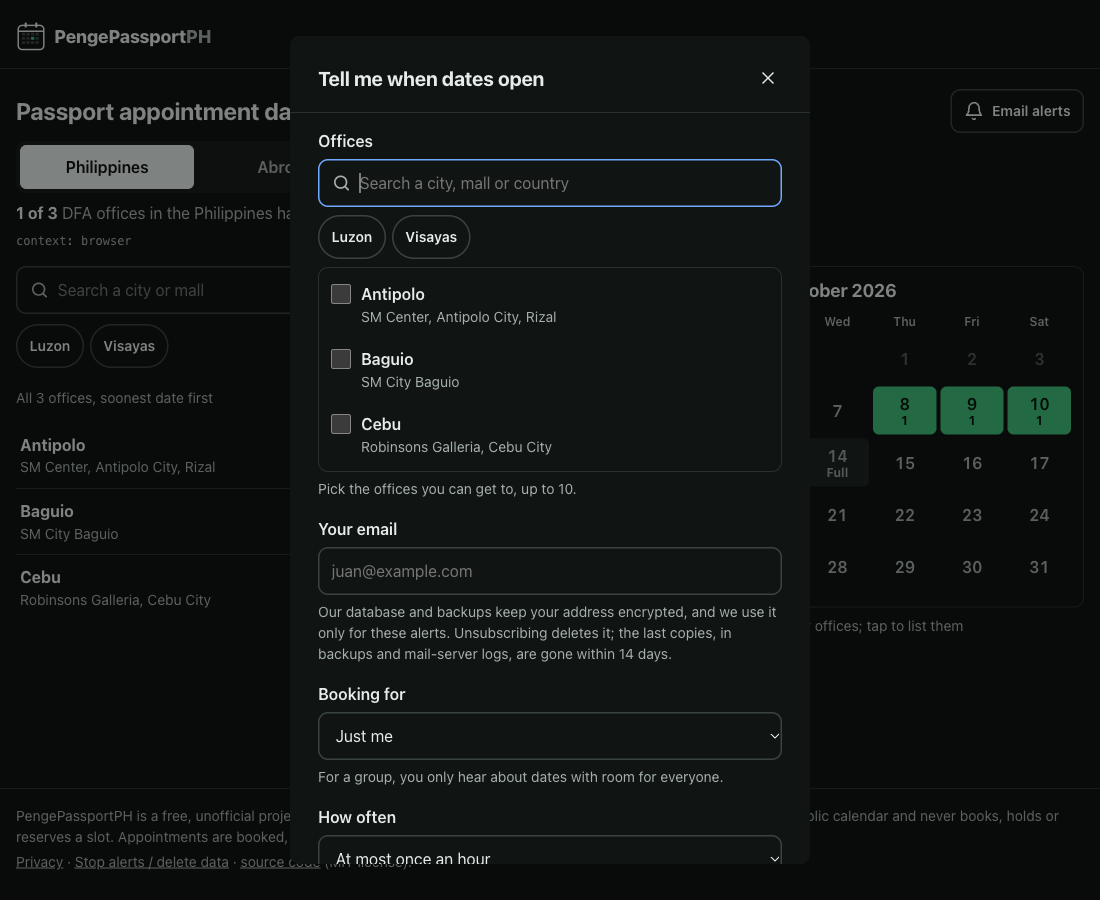
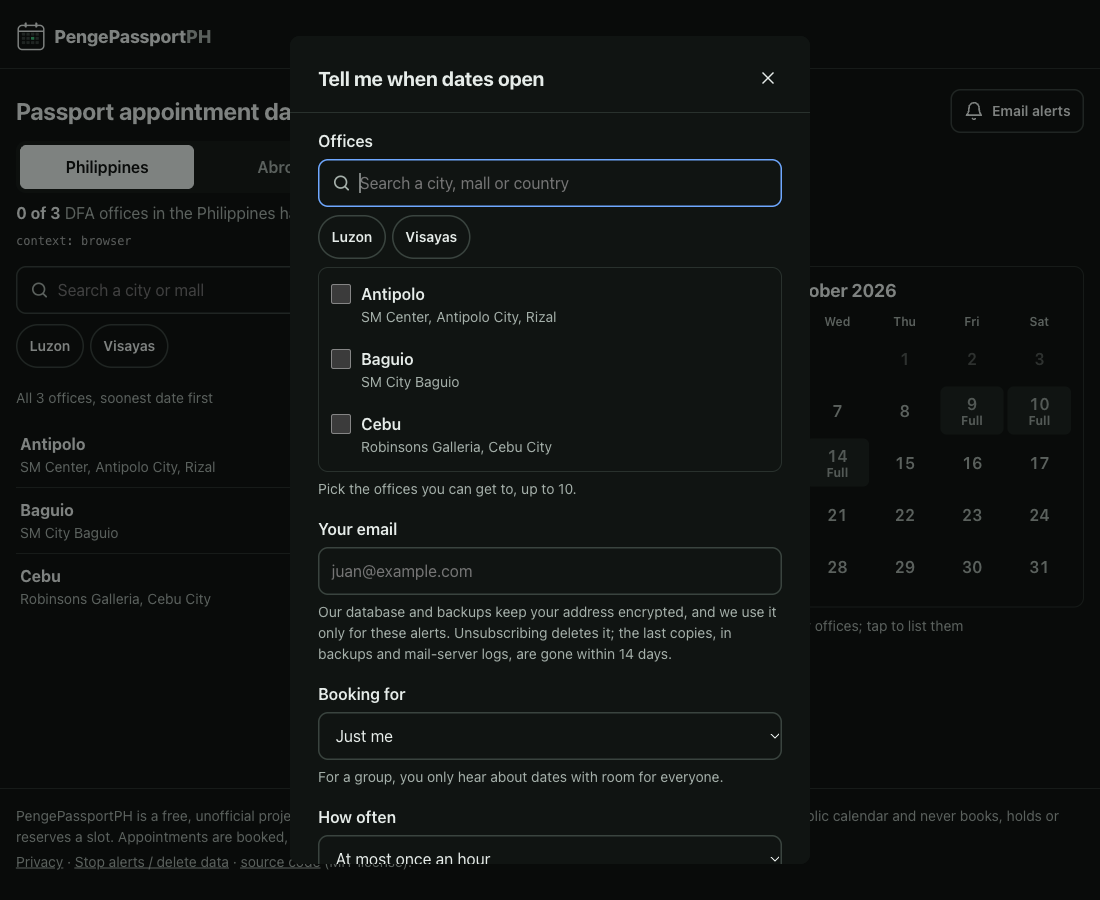
Fix the deferred minors: backups leave on time, the narrowest phones, the privacy page's date
Old backups are now deleted every day even when that day's upload fails, so an address
removed on unsubscribing leaves them on time; the privacy page, the runbook and the legal
register name the only exceptions (storage unreachable, server down). Below about 360
pixels the alerts button moves under the home heading instead of squeezing it to three
lines, and an office's two buttons take the full width on phones, the alert one keeping
to one line. The privacy page shows the day its push disclosures were written.

diff --git a/apps/web/src/pages/Privacy.tsx b/apps/web/src/pages/Privacy.tsx
@@ -2,7 +2,7 @@ import { useEffect } from 'react';
 import { BASE, REPO_URL } from '../links.ts';
 
 /** What the site and the Android app keep, as the runbook's inventory records it (deploy/README.md). */
-export const PRIVACY_UPDATED = '1 October 2026';
+export const PRIVACY_UPDATED = '6 October 2026';
 
 export function Privacy() {
   useEffect(() => {
@@ -81,8 +81,8 @@ export function Privacy() {
           hour, which drops anything deleted or expired, so a deleted address leaves it within the hour.
         </li>
         <li>
-          Backups are kept for 14 days: each day's backup deletes the older ones. If the storage cannot be reached,
-          they are deleted as soon as it can.
+          Backups are kept for 14 days: every day the older ones are deleted, even on a day whose own backup fails.
+          If the storage cannot be reached, or our server is down, they are deleted as soon as it is back.
         </li>
         <li>
           Emails go out from our own mail server, over an encrypted connection when your email provider offers one.
@@ -134,7 +134,8 @@ export function Privacy() {
       <p>
         Every alert email has an unsubscribe link. Unsubscribing deletes your address and your choices at once, with
         nothing to ask for or wait on. A sign-up you never confirm deletes itself after 48 hours. The last copies, in
-        the backups and the mail server's logs, are gone within 14 days.
+        the backups and the mail server's logs, are gone within 14 days. Backups can stay longer only while their
+        storage cannot be reached or our server is down (see above).
       </p>
       <p>
         You can also <a href={`${BASE}delete-data`}>stop alerts and delete your data here</a> before your first alert arrives or if you lose your email links. Enter your address, open the deletion link we email you, and press the button. This deletes your address, choices and waiting alerts and cancels unused sign-up links. We send the same link whether or not an address is subscribed. Anonymous totals and temporary abuse-prevention counters keep their usual retention periods described above.

diff --git a/apps/server/src/checker.ts b/apps/server/src/checker.ts
@@ -371,13 +371,15 @@ const backupKey = (day: string) => `backups/subscribers/date=${day}/subscribers.
 /**
  * The day's copy of every subscriber (still encrypted) goes to R2, and every
  * copy BACKUP_KEEP_DAYS old or older is deleted, however long the checker was
- * away. A failure retries on the next run.
+ * away. The old copies go even when the day's upload fails, so a removed
+ * address leaves the backups on time. A failure retries on the next run.
  */
 async function backupOncePerDay(deps: CheckDeps, now: () => number, runId: string) {
   const { kv, log, sink } = deps;
   if (!sink.putObject) return;
   const day = manilaDay(now());
   if (!(await kv.set(K.backupDone(day), runId, { nx: true, ttlSeconds: 2 * 24 * 3600 }))) return;
+  let done = true;
   try {
     const raw = await kv.get(K.sites);
     const siteIds = raw ? (JSON.parse(raw) as { id: number }[]).map((s) => s.id) : [];
@@ -385,6 +387,11 @@ async function backupOncePerDay(deps: CheckDeps, now: () => number, runId: strin
     const backup = await exportSubscribers(kv, siteIds, now());
     await sink.putObject(backupKey(day), gzipSync(JSON.stringify(backup)), 'application/gzip');
     log.info('subscriber backup stored', { day, subscribers: backup.subscribers.length });
+  } catch (err) {
+    done = false;
+    log.error('subscriber backup failed; the next run retries', { err: err as Error });
+  }
+  try {
     if (sink.listObjects && sink.deleteObject) {
       const oldest = manilaDay(now() - (BACKUP_KEEP_DAYS - 1) * 86_400_000); // the oldest day kept
       for (const key of await sink.listObjects('backups/subscribers/')) {
@@ -393,9 +400,10 @@ async function backupOncePerDay(deps: CheckDeps, now: () => number, runId: strin
       }
     }
   } catch (err) {
-    await kv.write([{ op: 'del', key: K.backupDone(day) }]);
-    log.error('subscriber backup failed; the next run retries', { err: err as Error });
+    done = false;
+    log.error('old subscriber backups not deleted; the next run retries', { err: err as Error });
   }
+  if (!done) await kv.write([{ op: 'del', key: K.backupDone(day) }]);
 }
 
 async function scanAll(

diff --git a/apps/web/src/styles.css b/apps/web/src/styles.css
@@ -98,7 +98,9 @@ h1, h2, h3 { font-weight: 700; line-height: 1.2; letter-spacing: -0.01em; }
 
 /* page header, on the page of all offices */
 .toolbar { display: grid; gap: 8px; padding: 20px 0 16px; }
-.title-row { display: flex; align-items: center; justify-content: space-between; gap: 12px; }
+.title-row { display: flex; flex-wrap: wrap; align-items: center; justify-content: space-between; gap: 8px 12px; }
+/* The button moves under the heading only where the heading would otherwise take three lines (under ~360 px). */
+.title-row h1 { flex: 1 1 11rem; }
 .toolbar h1 { font-size: 1.25rem; }
 @media (min-width: 640px) { .toolbar h1 { font-size: 1.5rem; } }
 .summary { color: var(--ink-2); }
@@ -212,6 +214,10 @@ h1, h2, h3 { font-weight: 700; line-height: 1.2; letter-spacing: -0.01em; }
 .hour.is-open .hour-state { color: var(--open); }
 .hour.is-full { color: var(--full-ink); }
 .actions { display: flex; flex-wrap: wrap; gap: 10px; }
+/* On phones the office's two actions are one width, one under the other. */
+@media (max-width: 479px) { .actions .btn { flex: 1 1 100%; } }
+/* The narrowest phones: the alert button's bell goes, so its label stays on one line. */
+@media (max-width: 339px) { .actions button.btn svg { display: none; } }
 .fallback { display: grid; gap: 10px; padding-top: 4px; }
 .fallback h2 { margin-top: 6px; font-size: 1.125rem; }
 

diff --git a/apps/server/test/checker.test.ts b/apps/server/test/checker.test.ts
@@ -706,6 +706,25 @@ describe('outbox integrity and backups', () => {
     await expect(importSubscribers(fresh, { version: 1, exportedAt: '', subscribers: [{ id: '../x', fields: {} }] })).rejects.toThrow();
   });
 
+  it('deletes backups 14 days old even when the day\'s upload fails, and retries the upload', async () => {
+    const w = await world();
+    let attempts = 0;
+    w.sink.putObject = async () => {
+      attempts++;
+      throw new Error('R2 refused the upload');
+    };
+    const deleted: string[] = [];
+    w.sink.deleteObject = async (key) => void deleted.push(key);
+    const stored = ['2026-09-13', '2026-09-14'].map((d) => `backups/subscribers/date=${d}/subscribers.json.gz`);
+    w.sink.listObjects = async (prefix) => (prefix === 'backups/subscribers/' ? stored : []);
+    await w.subscribe('ana@example.com', [486]);
+    await w.run();
+    // The address someone removed must still leave the old copies on time.
+    expect(deleted).toEqual([stored[0]]);
+    await w.run();
+    expect(attempts).toBe(2); // not marked done: the next run tries again
+  });
+
   it('backs up a subscriber whose only office has left the DFA\'s list', async () => {
     const w = await world();
     const gone = w.upstream.sitesList[0]!.id;

diff --git a/deploy/README.md b/deploy/README.md
@@ -353,7 +353,7 @@ are gone within 14 days."), checked on 27 September 2026:
 | Valkey | AES-256-GCM, a fresh nonce each time (`crypto.ts`); lookups use a keyed hash, never the address | Yes | At once |
 | Valkey's append-only log | Every write, the encrypted record included, until the log is rewritten (hourly, `deploy/valkey-compact.sh`) | Yes | Within an hour |
 | Unconfirmed sign-ups | The same encrypted record, waiting for its link to be clicked | Yes | At once (unsubscribing cancels them); otherwise after 48 hours |
-| Daily backups in R2 | The records exactly as stored | Yes | Within 14 days: each day's scan deletes every copy older than that |
+| Daily backups in R2 | The records exactly as stored | Yes | Within 14 days: each day the checker deletes every copy older than that, even when that day's upload fails; later only while R2 cannot be reached or the server is down (it retries every run) |
 | API and checker logs | No address: the code never logs one, and every line is scrubbed of anything shaped like one (tests check both) | Nothing to encrypt | Not stored |
 | Confirmation and unsubscribe links | Random tokens, stored only as a hash | Nothing to encrypt | Not an address |
 | Postfix, while sending | The message, with its recipient, waits in the queue until delivered (at most a day; root and postfix only) | **No** | Within a day |
@@ -383,8 +383,9 @@ database and the server's keys (Caddy's error log, above, is separate).
 ## Keys and backups
 
 Subscribers live only in Redis. Once a day the checker copies them, as stored (addresses encrypted), to R2
-at `backups/subscribers/date=YYYY-MM-DD/subscribers.json.gz`, and deletes the copies older than 14 days,
-so an address removed on unsubscribing leaves the backups too. To restore, download one and run, on the
+at `backups/subscribers/date=YYYY-MM-DD/subscribers.json.gz`, and deletes the copies older than 14 days
+(also on a day whose upload fails; both retry on the next run until they succeed), so an address removed
+on unsubscribing leaves the backups too. To restore, download one and run, on the
 server:
 
 ```sh

diff --git a/docs/legal/README.md b/docs/legal/README.md
@@ -17,7 +17,8 @@ says so rather than guessing.
 - It stores no personal data from the DFA. The personal data it holds is its own:
   - subscribers' email addresses, which it encrypts, confirms by double opt-in, and deletes on
     unsubscribe. The last copies, in encrypted daily backups and the mail server's logs, are gone within
-    14 days. The runbook lists
+    14 days; backups stay longer only while their storage cannot be reached or the server is down (old
+    copies are deleted every day, even when that day's backup fails). The runbook lists
     [every place an address exists](../../deploy/README.md#where-a-subscribers-address-goes).
   - visitors' network addresses, briefly. Rate-limit counters are kept under a keyed hash of the address,
     never the address itself, and expire after about two hours. The web server keeps no access log, but

diff --git a/docs/superpowers/verification/2026-10-push-phone.md b/docs/superpowers/verification/2026-10-push-phone.md
@@ -120,8 +120,11 @@ failed on a wide screen and was ignored; the audit now stops on any failed step)
 
 Fixed in `4c7389a` (the row's test went red, then green; the audit reran clean).
 
-Left as they are: at 320 pixels the home heading takes three lines beside the alerts button, and an
-office's "Email me when dates open here" takes two.
+Then, at the owner's request, the two small ones: below about 360 pixels the home heading took three
+lines beside the alerts button (the button now moves under the heading there), and an office's two
+buttons differed in width, the alert one taking two lines at 320 (on phones both now take the full
+width, and below 340 pixels the alert button drops its bell to stay on one line). Measured before and
+after in Chrome at 320 to 412 pixels; the audit reran clean (`results/audit.json`).
 
 ## Phone cleanup
 
